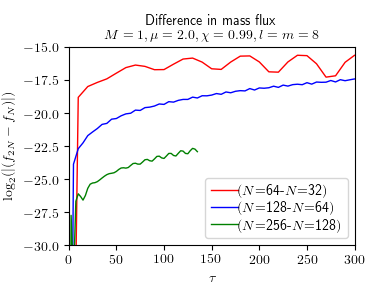
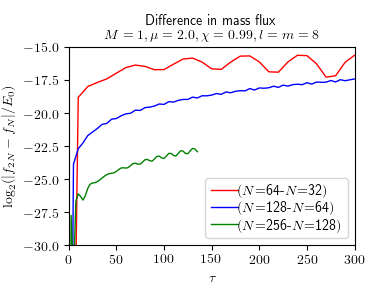
new plot

Changed region(s): [[0.0, 0.48, 0.0579, 0.69], [0.0, 0.27, 0.0579, 0.45]]

diff --git a/Analysis/scripts/plot_mass_flux_compare_N_convergence.py b/Analysis/scripts/plot_mass_flux_compare_N_convergence.py
@@ -226,7 +226,7 @@ def plot_graph():
 		ax1.set_title("Cumulative mass flux, $M=1,\\mu=0.4$,\n$\\chi=0.7,l=m=1$", wrap=True, fontsize=title_font_size)
 		save_path = home_path + "plots/mass_flux_in_R{:.0f}_IsoKerr_compare_N_cumulative.png".format(R_max)
 	else:
-		ax1.set_ylabel("$\\log_{2}(|(f_{2N}-f_{N})|)$", fontsize=label_size)
+		ax1.set_ylabel("$\\log_{2}(|f_{2N}-f_{N}|/E_0)$", fontsize=label_size)
 		plt.title("Difference in mass flux \n $M=1,\\mu=2.0,\\chi=0.99,l=m=8$", wrap=True, fontsize=title_font_size)
 		save_path = home_path + "plots/mass_flux_in_R{:.0f}_IsoKerr_compare_N_convergence.png".format(R_max)
 	ax1.legend(loc='best', fontsize=legend_font_size, ncol=1, labelspacing=0.2, handletextpad=0, columnspacing=1)
